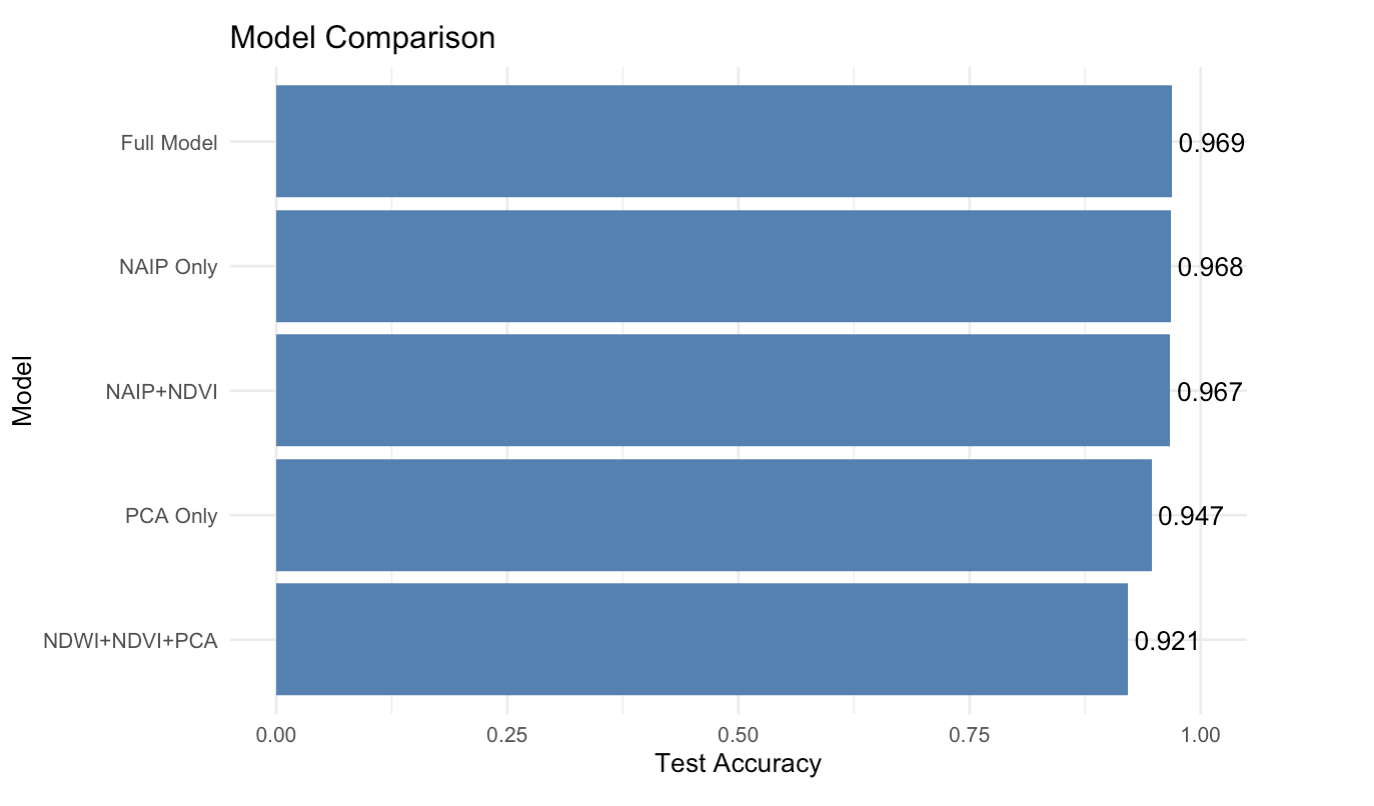
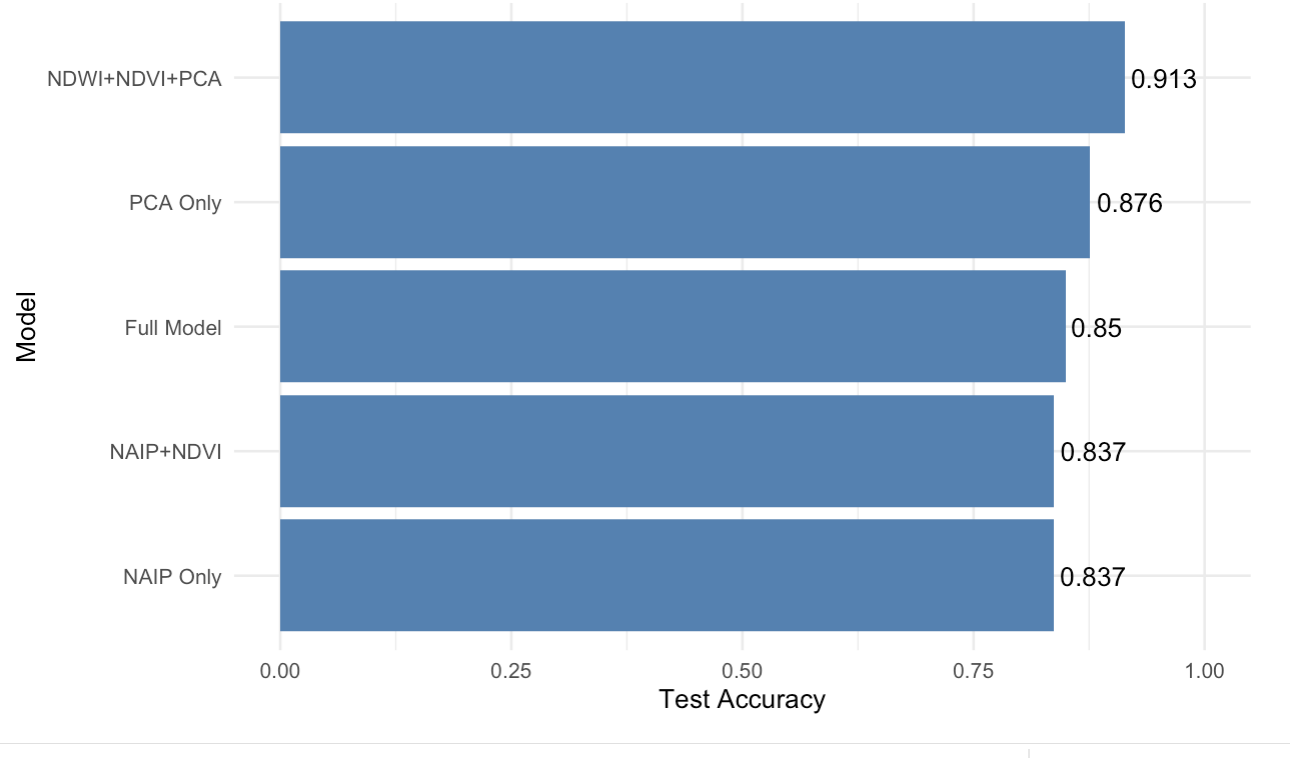
update model stats

diff --git a/README.md b/README.md
@@ -17,3 +17,5 @@ Additionally, I ran a negative binomial GLM on total count. For next steps, I wi
 ![Classification](images/new_class.png)
 
 ![Classification Models](images/model_comps.png)
+
+![Classification Model Tables](images/model_table.png)
